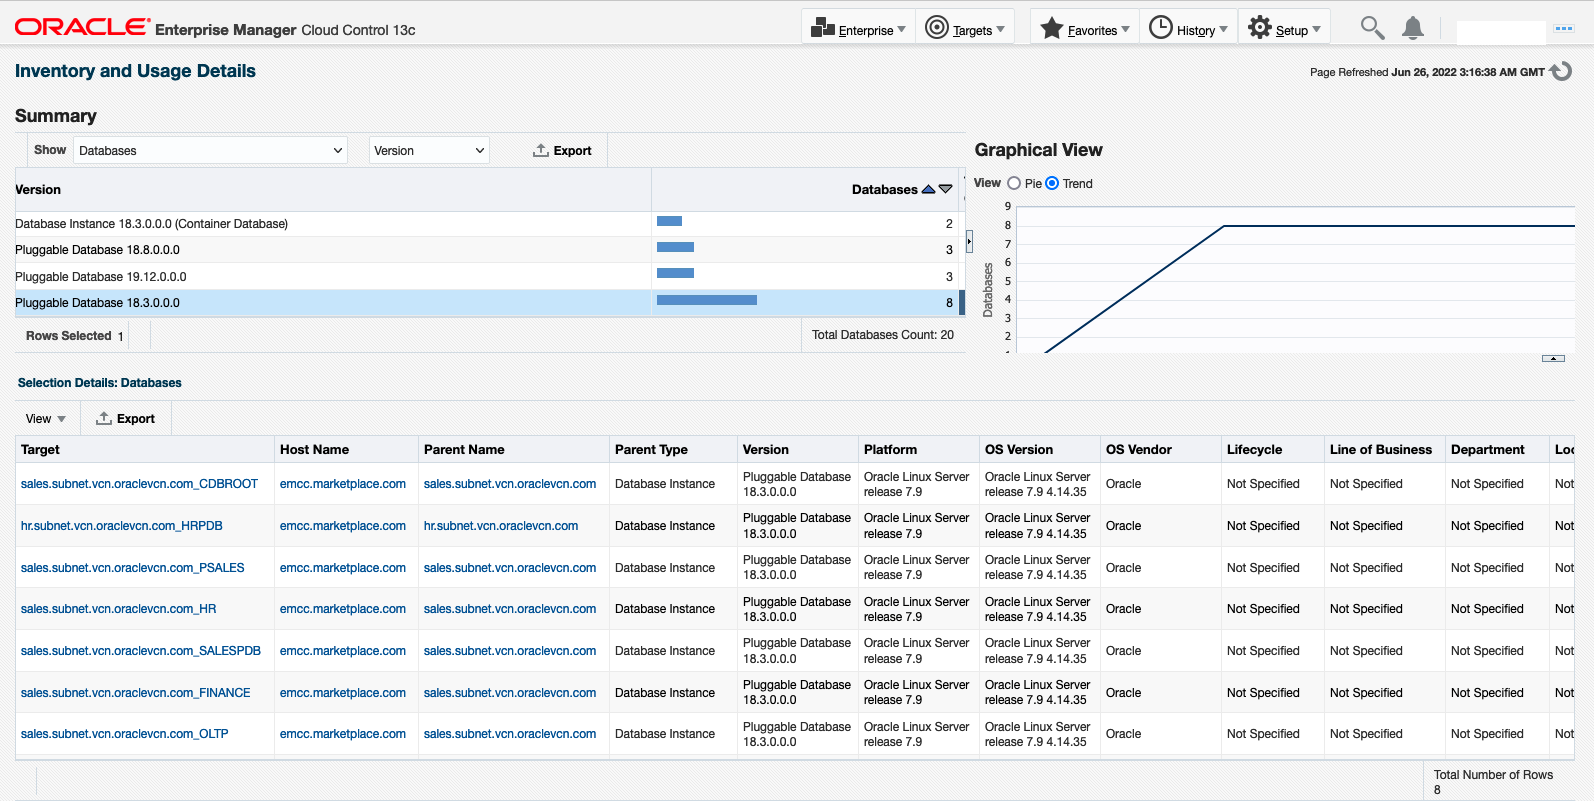
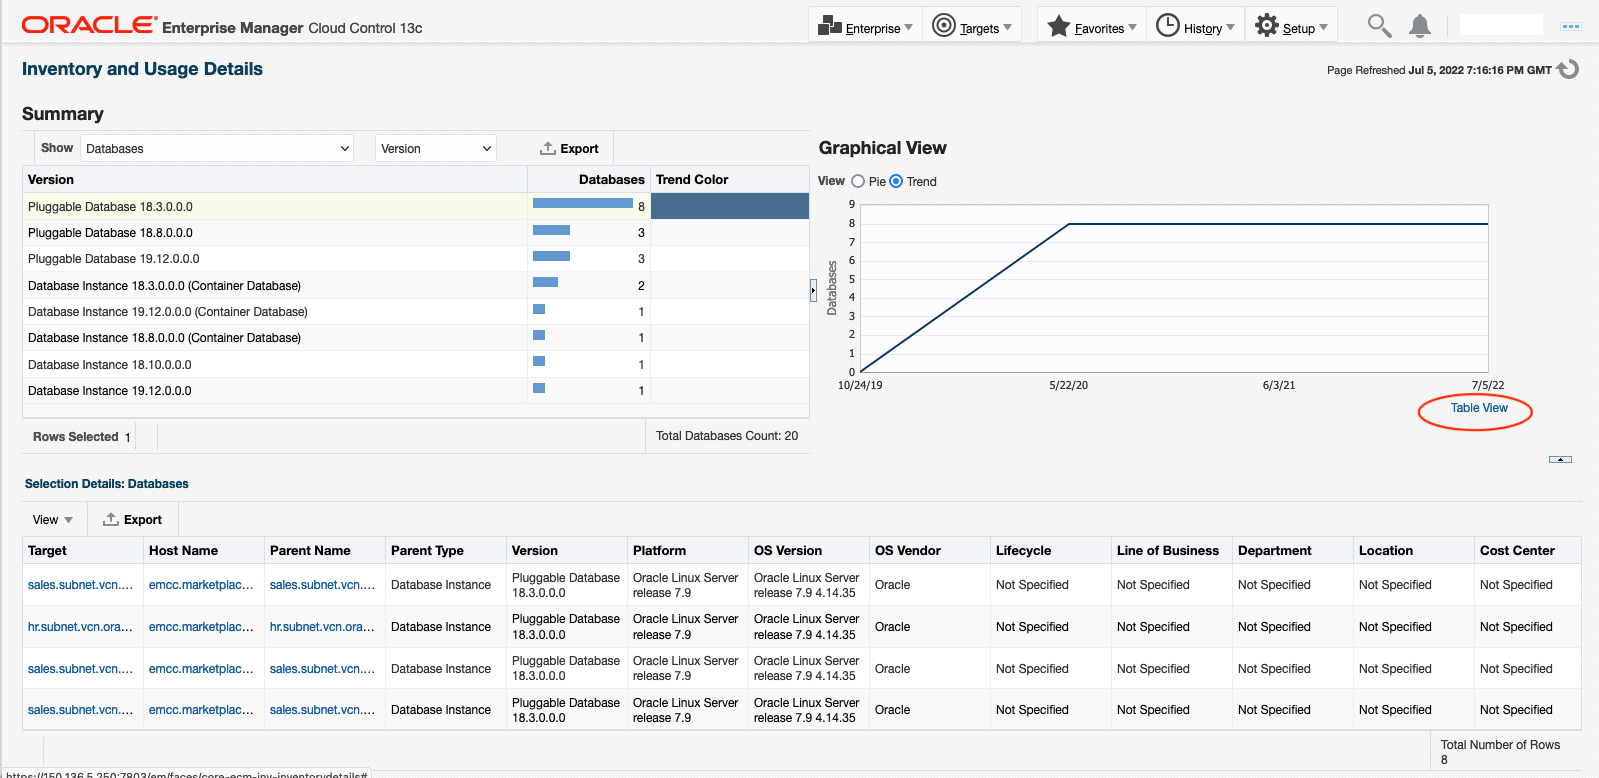
New screen captures updated

diff --git a/enterprise-manager/emcc-new/em-configuration-compliance-management/em-configuration-compliance-management.md b/enterprise-manager/emcc-new/em-configuration-compliance-management/em-configuration-compliance-management.md
@@ -68,7 +68,13 @@ All the items in this step are read-only, primary goal is to learn about invento
 
 5.  Explore pie chart to see the break-down of database inventory by color-code percentages. Also, in the **Graphical View**, choose **Trend** radio button to see the growth of given database instance over a period of time.
 
-  ![](images/Em_Config_Compliane_db_Trends_Image_3.png)
+ ![](images/Em_Config_Compliane_Db_Trends_Image_3.png)
+
+ Click on Table View, further details explore.
+
+ ![](images/Em_Config_Compliane_Db_Trends_Image_4.png)
+
+ Click **Close**
 
 6.  In the Details excel fie table output below, you will see details like
 
